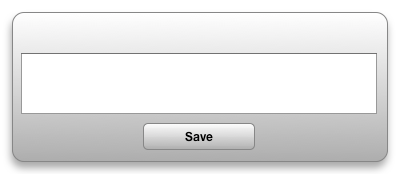
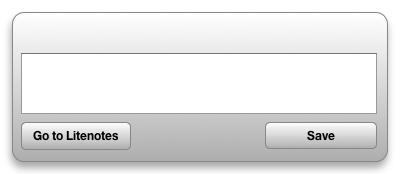
started adding autocompletion to dashboard widget

diff --git a/Litenotes.dcproj/project/widget.wdgt/main.html b/Litenotes.dcproj/project/widget.wdgt/main.html
@@ -9,6 +9,9 @@
     <script type="text/javascript" src="Parts/parts.js" charset="utf-8"></script>
     <script type="text/javascript" src="localizedStrings.js" charset="utf-8"></script>
     <script type="text/javascript" src="main.js" charset="utf-8"></script>
+    <script type="text/javascript" src="jquery-1.6.3.min.js" charset="utf-8"></script>
+    <script type="text/javascript" src="jquery-ui-1.8.16.custom.min.js" charset="utf-8"></script>
+    <!--script type="text/javascript" src="litenotes.js" charset="utf-8"></script-->
 </head>
 <body onload="load();" apple-part="com.apple.Dashcode.part.StackLayout">
     <div id="front">
@@ -17,6 +20,7 @@
         <textarea id="content" apple-part="com.apple.Dashcode.part.textarea"></textarea>
         <div id="text" apple-part="com.apple.Dashcode.part.text" class="apple-text apple-no-children" apple-default-image-visibility="hidden" apple-text-overflow="ellipsis" apple-style="part-height-dependent: true;part-width-dependent: true;"></div>
         <div id="saveButton" apple-part="com.apple.Dashcode.part.roundedtextbutton" class="apple-no-children" apple-style="image-theme: 1; image-shape: 3; image-button-type: 0; image-opacity: 1.00; image-top-color: 1,1,1,1; image-bottom-color: 0.6154,0.6154,0.6154,1; image-radius: 5,5,5,5; image-border: 1; image-border-color: 0.5294,0.5294,0.5294,1; image-border-width: 1; shine-strength: 0.90; shine-alpha-level: 0.67; shine-height: 0.50; glass-arc-height: 0.06; shadow-include-shadow: 0;"></div>
+        <div id="button" apple-part="com.apple.Dashcode.part.roundedtextbutton" class="apple-no-children" apple-style="image-theme: 1; image-shape: 3; image-button-type: 0; image-opacity: 1.00; image-top-color: 1,1,1,1; image-bottom-color: 0.6154,0.6154,0.6154,1; image-radius: 5,5,5,5; image-border: 1; image-border-color: 0.5294,0.5294,0.5294,1; image-border-width: 1; shine-strength: 0.90; shine-alpha-level: 0.67; shine-height: 0.50; glass-arc-height: 0.06; shadow-include-shadow: 0;"></div>
     </div>
     <div id="back">
         <img id="backImg" src="Parts/Images/back.png" alt="" apple-locked="true" apple-part="com.apple.Dashcode.part.backimage" apple-style=" image-radius: 12,12,12,12; image-border: 1; image-border-color: 0.1500,0.1500,0.1500; image-border-width: 3; shadow-include-shadow: 1; shadow-blur: 9.00; shadow-offset: -1.00,-6.00; shadow-color: 0.0000,0.0000,0.0000,0.3333;">

diff --git a/static/litenotes.js b/static/litenotes.js
@@ -1,11 +1,17 @@
 $(function() {
+
+    // Autocomplete
     $('textarea').autocomplete({
         source: function(request, response) {
+            var baseUrl = "";
+            if (serverUrl)
+                baseUrl = serverUrl.value;
+                
             var parsed = request.term.split("#");
             if (parsed.length > 1 && parsed[parsed.length - 1].length > 0) {
                 $.ajax({
-                    url: "/tags?term=%23" + parsed[parsed.length - 1],
-                    complete: function(data) {response(eval(data.responseText));},
+                    url: baseUrl + "/tags?term=%23" + parsed[parsed.length - 1],
+                    complete: function(data) { response(eval(data.responseText));},
                 });
             }
         },
@@ -17,4 +23,24 @@ $(function() {
             $(this).val(parsed.join("#"));
         }
     });
+    
+    // todo behavior
+    $('ul.notes li input[type="checkbox"]').each(function() {
+       if ($(this).attr("checked")=="checked")
+        $(this).closest("li").addClass("done");
+    });
+    $('ul.notes li input[type="checkbox"]').click(function() {
+        var checked = $(this).attr("checked")=="checked"?true:false;
+        var ajaxUrl = "/todo/" + $(this).val() + "/" + checked;
+        var checkbox = $(this);
+        
+        $.ajax({
+            type:"post",
+            url: ajaxUrl,
+            success: function() {
+                checkbox.closest("li").toggleClass("done");
+            },
+        });
+    })
+    
 })

diff --git a/static/litenotes.css b/static/litenotes.css
@@ -17,39 +17,46 @@ ul {
     text-indent:0;
     padding:0;
 }
-ul.notes li {
+ul.notes li, ul.search li {
     padding:10px;
     border-radius:20px;
     background-color:white;
     margin:3px;
 }
 ul.notes li span { color:#666; }
-ul.notes li textarea {
+ul.notes li.done p {text-decoration: line-through;}
+
+ul.notes li textarea,
+ul.search li input[type=text] {
     width:100%;
     min-height:52px;
     border:1px solid #eee;
     border-radius:5px;
 }
-ul.notes li input[type=submit] {
+
+ul.search li input[type=text] {
+    min-height:25px;
+}
+
+input[type=submit] {
     border:1px solid #eee;
     background-color:#ddd;
     float:right;
     border-radius:5px;
 }
-ul.notes li input[type=submit]:hover {
+input[type=submit]:hover {
     background-color:#eee;
 } 
-h2.tags {
+div.sidebar {
     margin:0;
     padding:0;
     position:fixed;
     top: 0;
-    left: 410px;    
+    left: 410px;        
+}
+h2.tags {
 }
 ul.tags {
-    position:fixed;
-    top: 32px;
-    left: 410px;
     border-radius:20px;
     background-color:white;
     min-height:83px;

diff --git a/Litenotes.dcproj/project/widget.wdgt/Parts/setup.js b/Litenotes.dcproj/project/widget.wdgt/Parts/setup.js
@@ -5,10 +5,12 @@
  code generator otherwise the changes will be lost.
  */
 var dashcodePartSpecs = {
+    "button": { "creationFunction": "CreateButton", "leftImageWidth": 5, "onclick": "gotoNotes", "rightImageWidth": 5, "text": "Go to Litenotes" },
     "done": { "creationFunction": "CreateGlassButton", "onclick": "showFront", "text": "Done" },
     "info": { "backgroundStyle": "black", "creationFunction": "CreateInfoButton", "foregroundStyle": "white", "frontID": "front", "onclick": "showBack" },
     "saveButton": { "creationFunction": "CreateButton", "leftImageWidth": 5, "onclick": "saveNote", "rightImageWidth": 5, "text": "Save" },
     "text": { "text": "Litenotes", "view": "DC.Text" },
     "text1": { "text": "Litenotes Server URL", "view": "DC.Text" }
 };
+
 

diff --git a/Litenotes.dcproj/project/widget.wdgt/main.css b/Litenotes.dcproj/project/widget.wdgt/main.css
@@ -91,9 +91,9 @@ body {
     right: auto;
     margin-top: 0px;
     width: 112px;
-    left: 143px;
-    top: 123px;
-    bottom: 24px;
+    top: 122px;
+    left: 265px;
+    bottom: 25px;
     height: auto;
 }
 
@@ -122,4 +122,20 @@ body {
     left: 166px;
     top: 26px;
     width: 207px;
+}
+
+#button {
+    font-family: HelveticaNeue-Bold;
+    font-size: 12px;
+    text-align: center;
+    cursor: default;
+    -khtml-user-select: none;
+    position: absolute;
+    right: auto;
+    margin-top: 0px;
+    left: 21px;
+    top: 122px;
+    width: 110px;
+    bottom: 24px;
+    height: auto;
 }

diff --git a/Litenotes.dcproj/project/widget.wdgt/main.js b/Litenotes.dcproj/project/widget.wdgt/main.js
@@ -114,7 +114,13 @@ function saveNote(event)
 {
     var text = escape(content.value);
     var req = new XMLHttpRequest();
-    var url = serverUrl.value + '/add/' + text;
+    var url = serverUrl.value + '/add/';
     req.open("POST",url,true);
-    req.send(text);
+    req.send("content=" + text);
+}
+
+
+function gotoNotes(event)
+{
+    widget.openURL(serverUrl.value);
 }

diff --git a/Litenotes.dcproj/project/widget.wdgt/jquery-ui-1.8.16.custom.min.js b/Litenotes.dcproj/project/widget.wdgt/jquery-ui-1.8.16.custom.min.js
@@ -1,0 +1,1 @@
+static/jquery-ui-1.8.16.custom.min.js

diff --git a/Litenotes.dcproj/project/widget.wdgt/jquery-1.6.3.min.js b/Litenotes.dcproj/project/widget.wdgt/jquery-1.6.3.min.js
@@ -1,0 +1,1 @@
+static/jquery-1.6.3.min.js

diff --git a/Litenotes.dcproj/project/widget.wdgt/litenotes.js b/Litenotes.dcproj/project/widget.wdgt/litenotes.js
@@ -1,0 +1,1 @@
+static/litenotes.js

diff --git a/litenotes.rb b/litenotes.rb
@@ -2,51 +2,68 @@ Camping.goes :Litenotes
 
 module Litenotes::Models
   class Note < Base
+    has_one :todo
   end
   class Tag < Base
   end
-
-  class CreateNotes < V 1.0
+  class Todo < Base
+    belongs_to :note
+  end
+  class Create < V 1.0
     def self.up
       create_table Note.table_name do |t|
         t.string :content
         t.timestamps
       end
-    end
-    def self.down
-      drop_table Note.table_name
-    end
-  end
-
-  class CreateTags < V 1.1
-    def self.up
       create_table Tag.table_name do |t|
         t.string :name
       end
+      create_table Todo.table_name do |t|
+        t.column :done, :boolean
+        t.integer :note_id
+      end      
     end
     def self.down
+      drop_table Note.table_name
       drop_table Tag.table_name
+      drop_table Todo.table_name
     end
   end
 end
 
 module Litenotes::Controllers
-  class Index < R '/'
+  class Index
     def get
       @notes = Note.all.reverse
+      @tags = Tag.all
+      @todos = Todo.all
+      render :index
+    end
+  end
+  class Search
+    def get
+      @notes = Note.find(:all, :conditions => ['content LIKE ?','%' + @input.search + '%']).reverse      
       @tags = Tag.all
       render :index
     end
   end
-  class NoteX < R '/note/add'
+  class Add
     def post
       @note = Note.new;
       @note.content = @input.content
       @note.save
       @input.content.scan(/\#\w+/).each do |tag|
         Tag.new(:name=>tag).save unless Tag.find_by_name(tag)
+        Todo.new(:done=>false,:note_id=>@note.id).save if tag == "#todo"
       end
       redirect Index
+    end
+  end
+  class TodoNX
+    def post(id, done)
+      @todo = Todo.find_by_id(id)
+      @todo.done = done
+      @status = "200" if @todo.save
     end
   end
   class TagX
@@ -64,7 +81,7 @@ module Litenotes::Controllers
       @tags.each do |tag|
         tag_names.push '"' + tag.name + '"'
       end 
-      mab {  "[ " + tag_names.join(',') + "];" }
+      mab {  "[ " + tag_names.join(',') + "]" }
     end
   end
   class Static < R '/static/(.+)'
@@ -106,25 +123,38 @@ module Litenotes::Views
     h2 { "Notes" }
     ul.notes do
       li.newnote do
-        form :action => R(NoteX), :method => :post do
+        form :action => R(Add), :method => :post do
           textarea "", :id => :content, :name => :content
           label :for => :content
           input :type => :submit, :value => 'Save'
         end 
       end
+      @todos.to_json
       @notes.each do |note|
         li do
           span note.created_at
+          input :type => :checkbox, :value => note.todo.id, :checked => note.todo.done if note.todo
           p note.content
         end
       end
     end
-    h2.tags {"Tags"}
-    ul.tags do
-      li {a "None", :href => "/"}
-      @tags.each do |tag|
+    div.sidebar do
+      h2.tags {"Tags"}
+      ul.tags do
+        li {a "None", :href => R(Index)}
+        @tags.each do |tag|
+          li do
+            a tag.name, :href => R(TagX, tag.name)
+          end
+        end
+      end
+      h2.search {"Search"}
+      ul.search do
         li do
-          a tag.name, :href => R(TagX, tag.name)
+          form :action => R(Search), :method=>:get do
+            input :type => :text, :id => :search, :value => @input.search
+            input :type => :submit, :value => 'Search'
+          end
         end
       end
     end
@@ -132,7 +162,7 @@ module Litenotes::Views
 end
 
 def Litenotes.create 
-  Litenotes::Models.create_schema
+  Litenotes::Models.create_schema()
 end
 
 
